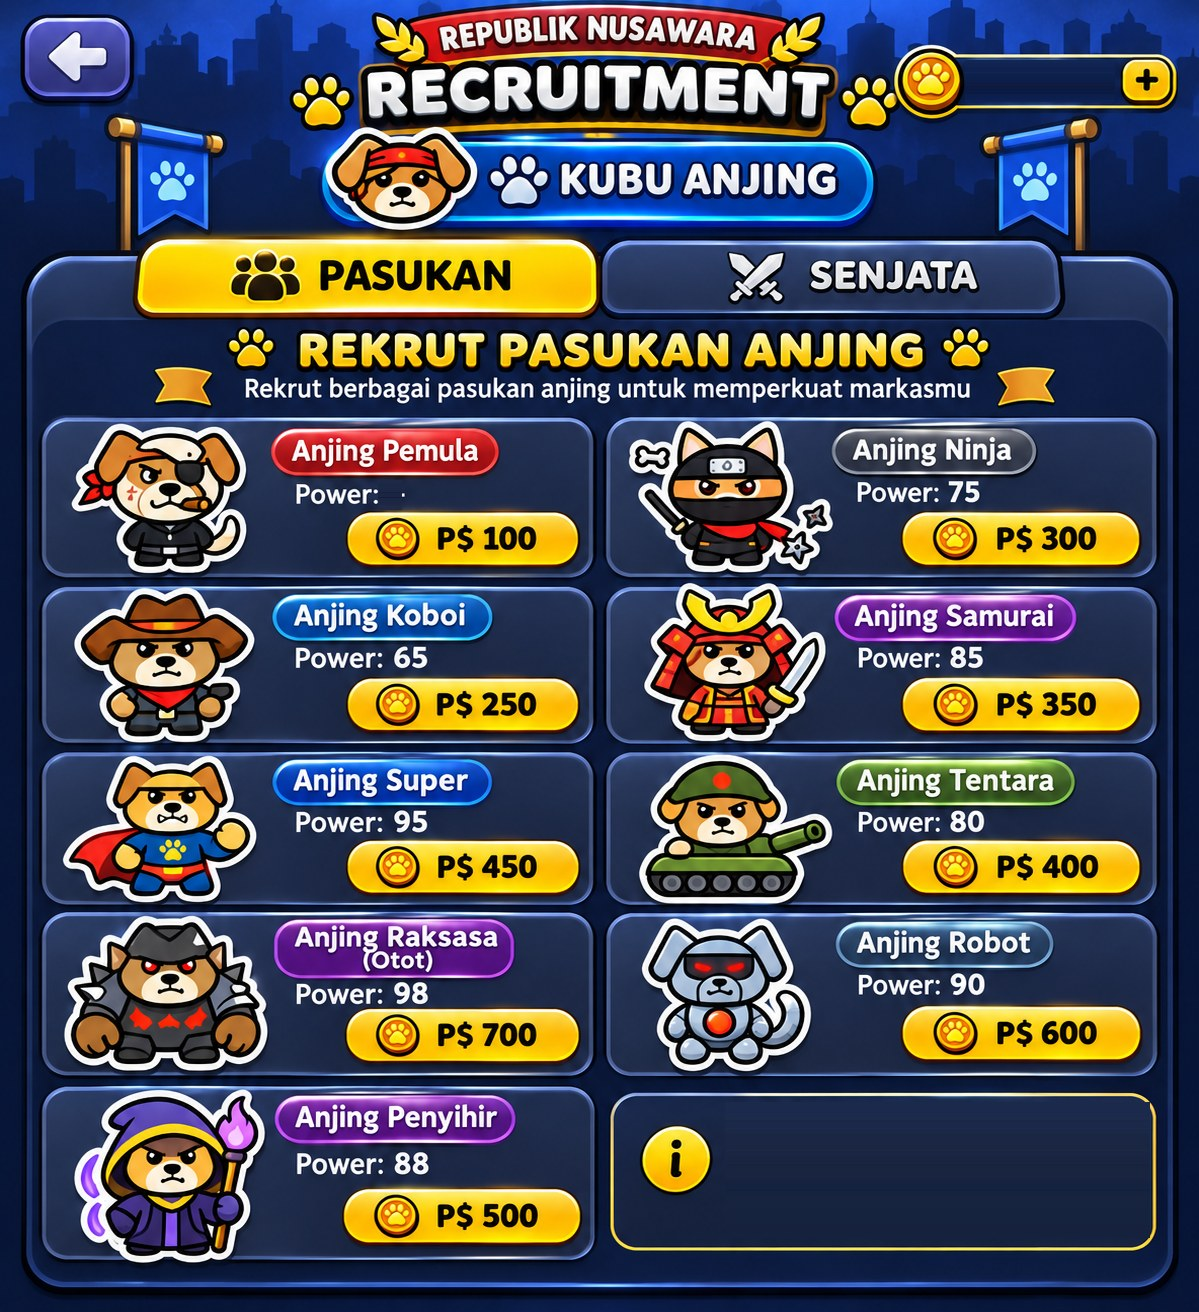
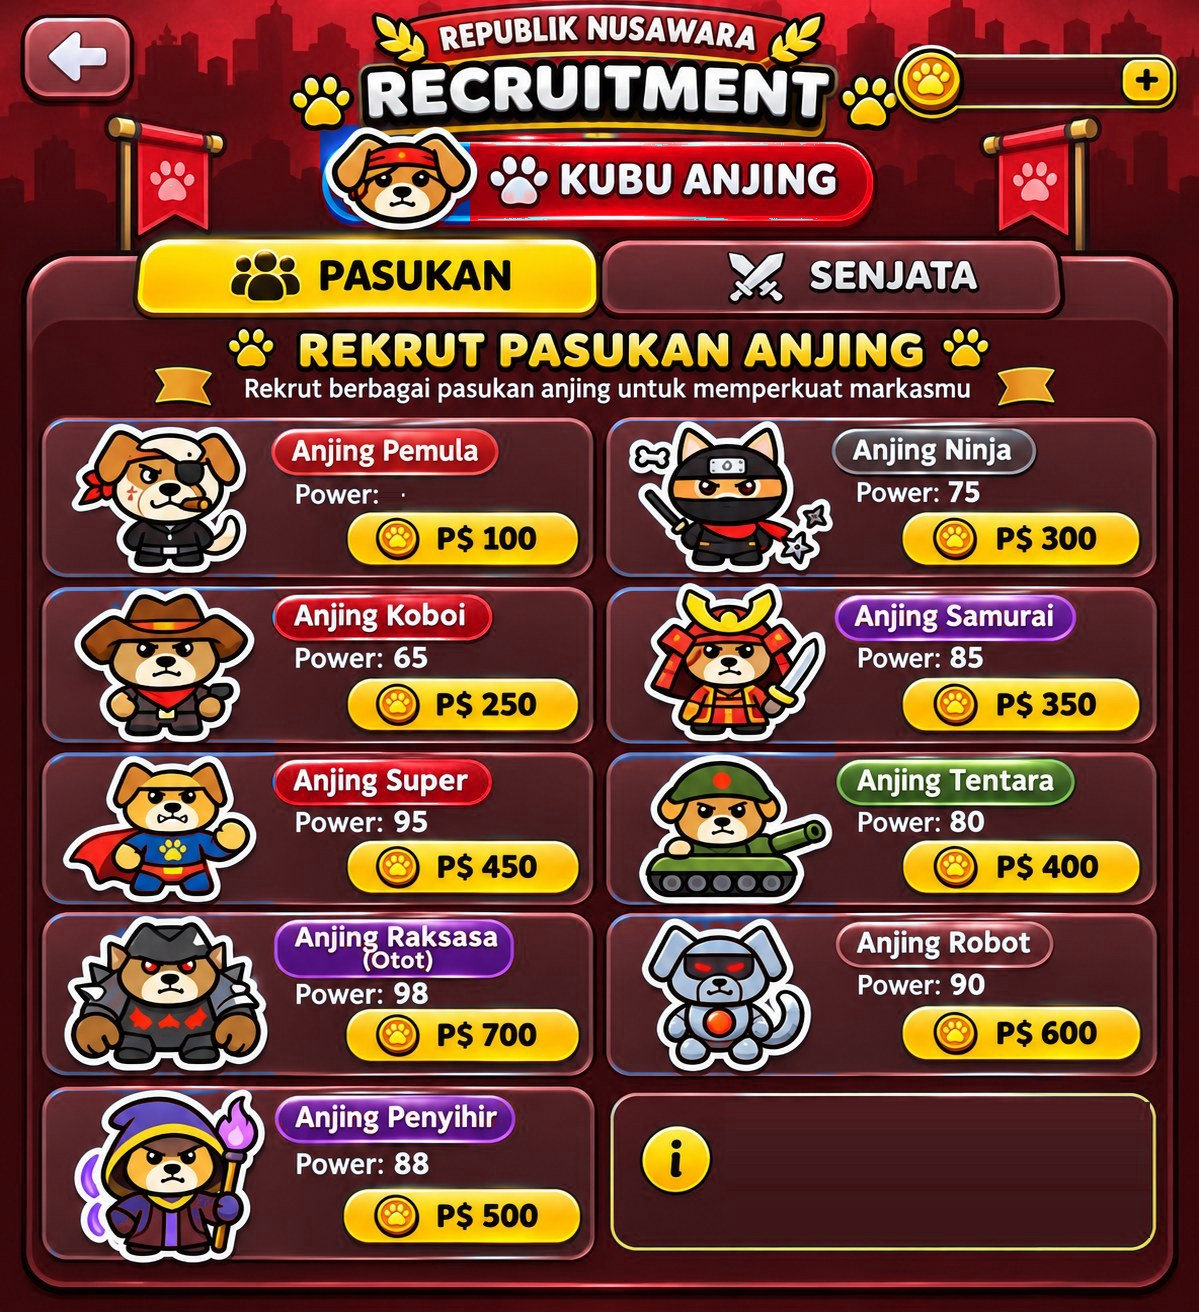
versi 22: recruitment kubu anjing warna merah seperti gudang
Claude-Session: https://claude.ai/code/session_012X9z3fiAFZ3qgrK3AKFit9

diff --git a/index.html b/index.html
@@ -13,7 +13,7 @@ html,body{margin:0;height:100%;background:#0e1124;font-family:system-ui,-apple-s
 </style></head><body>
 <div id="wrap"></div>
 <div id="ttl">PETA PERANG KUCING VS ANJING</div>
-<div id="ver" style="position:fixed;left:8px;top:calc(env(safe-area-inset-top) + 8px);z-index:30;font:600 11px system-ui;color:rgba(255,255,255,.75);background:rgba(0,0,0,.45);padding:2px 8px;border-radius:8px;pointer-events:none">versi 21 · 23 Nov 02:55</div><div id="hint">1 jari: geser peta · 2 jari: cubit zoom & putar</div>
+<div id="ver" style="position:fixed;left:8px;top:calc(env(safe-area-inset-top) + 8px);z-index:30;font:600 11px system-ui;color:rgba(255,255,255,.75);background:rgba(0,0,0,.45);padding:2px 8px;border-radius:8px;pointer-events:none">versi 22 · 23 Nov 03:05</div><div id="hint">1 jari: geser peta · 2 jari: cubit zoom & putar</div>
 <div id="bar">
 <button data-v="depan" class="on">Depan</button><button data-v="jam3">Jam 3</button><button data-v="jam9">Jam 9</button><button data-v="belakang">Belakang</button><button data-v="atas">Atas</button><button id="sorot">Sorot Pasukan</button><button id="auto">Putar otomatis</button><button id="waktu">Waktu: Jam asli</button>
 </div>
@@ -500,7 +500,7 @@ const harga=id=>{const m=/P\$ ?([\d.]+)/;return null;};
 const HG={a_pemula:100,a_ninja:300,a_koboi:250,a_samurai:350,a_super:450,a_tentara:400,a_raksasa:700,a_robot:600,a_penyihir:500,a_pentungan:100,a_shuriken:150,a_cutlass:200,a_cakar:250,a_tongkat:300,a_laser:400,a_tommy:500,a_meriam:600,k_pemula:100,k_ninja:300,k_koboi:250,k_super:450,k_raksasa:700,k_robot:600,k_penyihir:500,k_samurai:350,k_tentara:400,k_barbel:100,k_bom:150,k_pistol:200,k_perisai:250,k_tongkat:300,k_tinju:400,k_katana:500,k_bazoka:600};
 const NM={a_pemula:'Anjing Pemula',a_ninja:'Anjing Ninja',a_koboi:'Anjing Koboi',a_samurai:'Anjing Samurai',a_super:'Anjing Super',a_tentara:'Anjing Tentara',a_raksasa:'Anjing Raksasa',a_robot:'Anjing Robot',a_penyihir:'Anjing Penyihir',a_pentungan:'Pentungan Paku',a_shuriken:'Shuriken Tulang',a_cutlass:'Pedang Cutlass',a_cakar:'Cakar Bara',a_tongkat:'Tongkat Api Ungu',a_laser:'Laser Inti Merah',a_tommy:'Tommy Gun Emas',a_meriam:'Meriam Tank',k_pemula:'Kucing Pemula',k_ninja:'Kucing Ninja',k_koboi:'Kucing Koboi',k_super:'Kucing Super',k_raksasa:'Kucing Raksasa',k_robot:'Kucing Robot',k_penyihir:'Kucing Penyihir',k_samurai:'Kucing Samurai',k_tentara:'Kucing Tentara',k_barbel:'Barbel Besi',k_bom:'Bom Asap',k_pistol:'Pistol Revolver',k_perisai:'Perisai Cakar',k_tongkat:'Tongkat Bintang',k_tinju:'Tinju Roket',k_katana:'Katana',k_bazoka:'Bazoka'};
 const coin=()=>{const S=window.KVA_S;return S?+S.pet_coin||0:0;};
-function render(){const C=RK[kb][tab];document.getElementById('rki').src='rk_'+kb+'_'+tab+'.jpg?v=21';H.innerHTML='';
+function render(){const C=RK[kb][tab];document.getElementById('rki').src='rk_'+kb+'_'+tab+'.jpg?v=22';H.innerHTML='';
  const hs=(r,f)=>{const e=document.createElement('div');e.className='h';P(e,r);e.onclick=ev=>{ev.stopPropagation();f();};H.appendChild(e);};
  hs(C.back,close);hs(C.tp,()=>{tab='p';render();});hs(C.ts,()=>{tab='s';render();});
  C.btn.forEach(([id,...r])=>hs(r,()=>ask(id)));
@@ -528,7 +528,7 @@ const P=(e,[l,t,w,h])=>Object.assign(e.style,{left:l+'%',top:t+'%',width:w+'%',h
 const f=n=>Number(n||0).toLocaleString('id-ID');
 const tok=()=>{try{return localStorage.getItem('kva_token')}catch(_){return null}};
 async function call(fn,a){const t=tok();if(!t){kvaToast('Masuk dulu');return;}if(busy)return;busy=true;try{const j=await window.kvaRpc(fn,Object.assign({p_token:t},a));window.KVA_S=j;window.KVA_B=j.bangunan||window.KVA_B;render();return j;}catch(e){kvaToast(e.message);}finally{busy=false;}}
-function render(){const C=GD[kb][tab],S=window.KVA_S||{},inv=S.inventaris||[];document.getElementById('gdi').src='gd_'+kb+'_'+tab+'.jpg?v=21';H.innerHTML='';
+function render(){const C=GD[kb][tab],S=window.KVA_S||{},inv=S.inventaris||[];document.getElementById('gdi').src='gd_'+kb+'_'+tab+'.jpg?v=22';H.innerHTML='';
  const cnt={},on={};inv.forEach(x=>{cnt[x.item]=(cnt[x.item]||0)+1;if(x.dipakai)on[x.item]=1;});
  const nP=inv.filter(x=>x.jenis==='pasukan').length,nS=inv.length-nP,pp=+S.power_pasukan||0,ps=+S.power_senjata||0;
  const tx=(r,t,cls,fs)=>{const e=document.createElement('div');e.className='v '+(cls||'');P(e,r);e.style.fontSize=fs+'cqw';e.textContent=t;H.appendChild(e);return e;};
